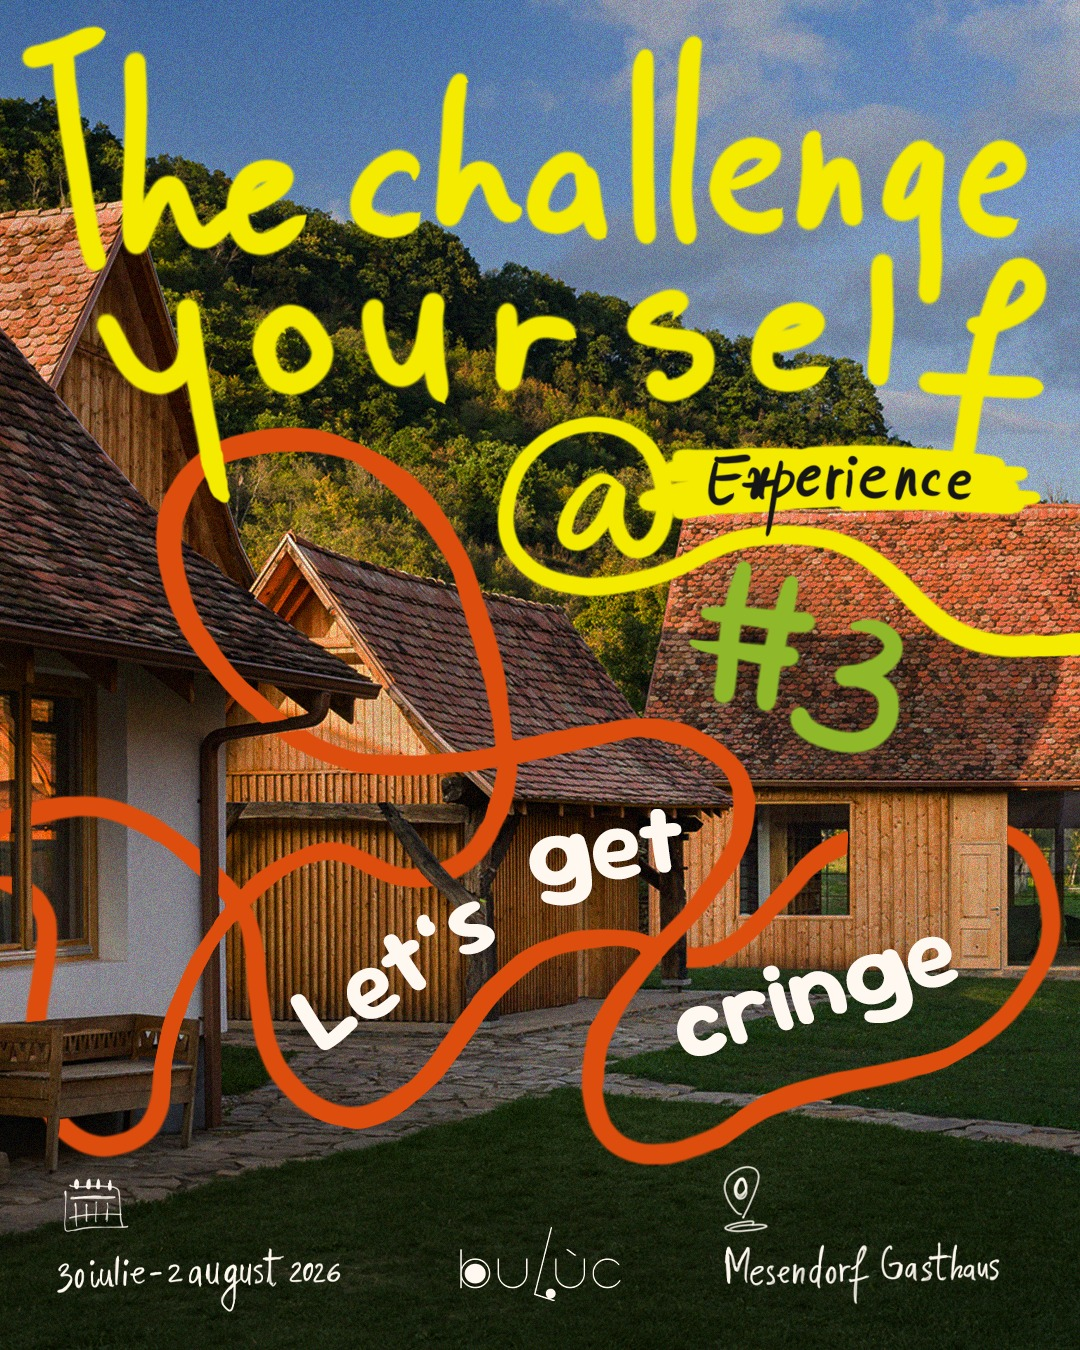
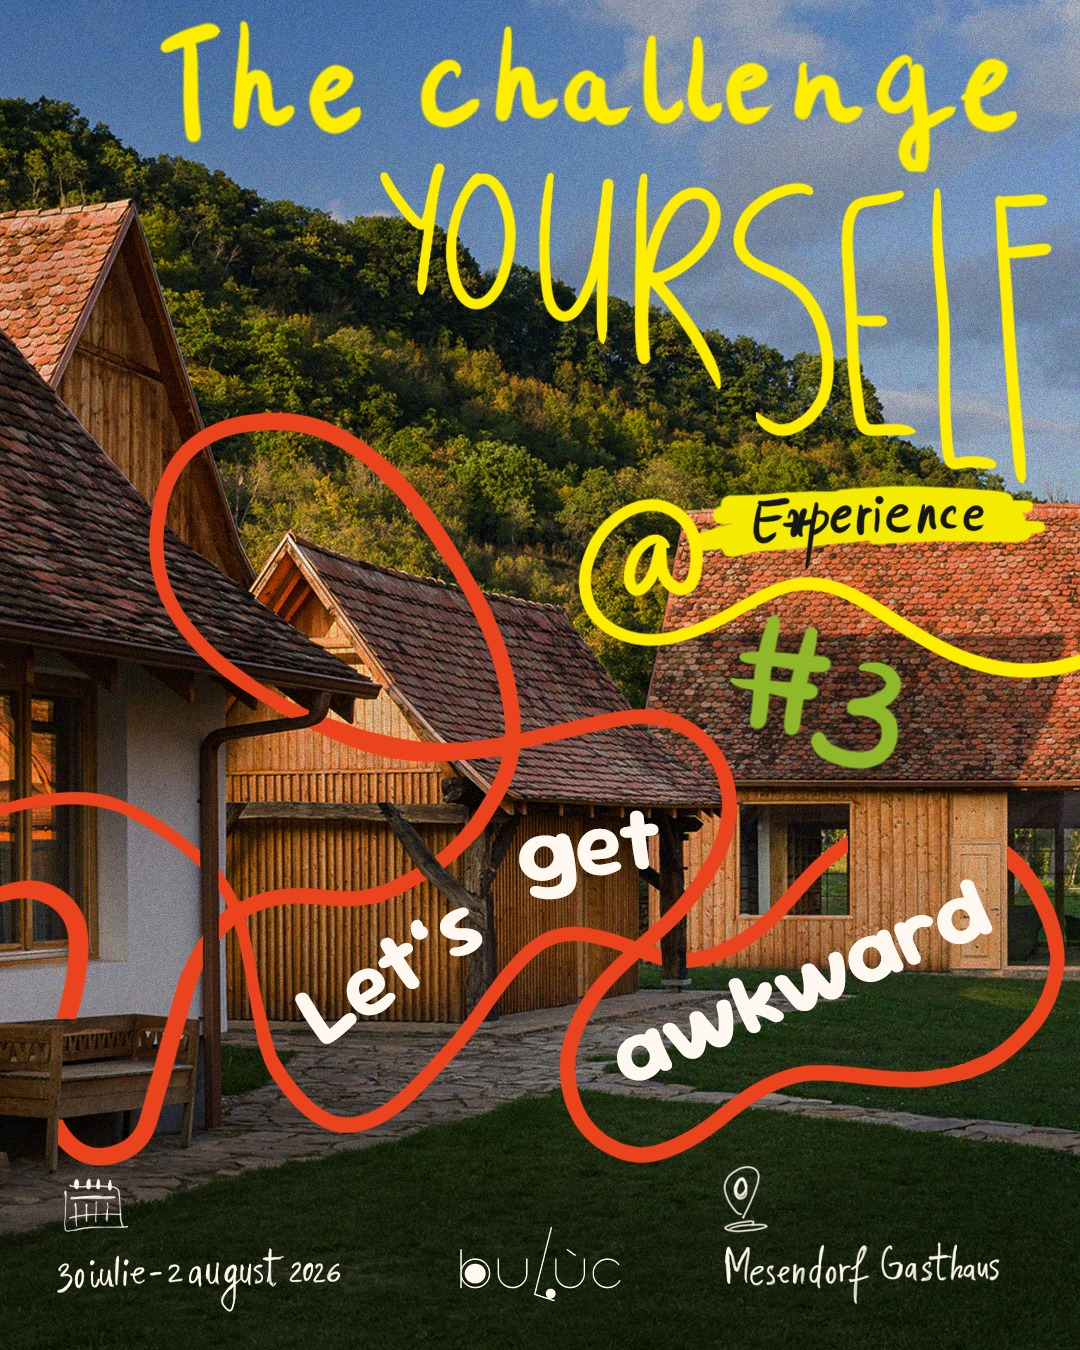
update sxperise 3

diff --git a/src/pages/ExperienceV3.tsx b/src/pages/ExperienceV3.tsx
@@ -1,4 +1,4 @@
-import { FaEnvelope } from "react-icons/fa";
+import { FaEnvelope, FaExternalLinkAlt } from "react-icons/fa";
 import { useRef } from "react";
 import TeamMemberCard from "../components/cards/TeamMemberCard";
 import MainLayout from "../components/layouts/MainLayout";
@@ -10,36 +10,92 @@ import FaqItemRow from '../components/layouts/FaqItemRow';
 
 export interface IExperienceProps { }
 const Experience: React.FC = () => {
+  const isMobile = window.matchMedia("(max-width: 768px)").matches;
+
   const signupRef = useRef<HTMLDivElement>(null);
   const scrollToSignup = () => {
     signupRef.current?.scrollIntoView({ behavior: 'smooth' });
   };
   return (
     <MainLayout noPadding noNavbar>
+      <div className='w-[100vw] h-[100vh] flex mb:inline mb:h-auto overflow-hidden'>
+        <img src={IMAGES.ExperienceV3} alt="Experience V3" className='h-[100vh] w-auto mb:w-full' />
+        <div className={''}>
+        </div>
+        
+        <div className={'h-full mb:w-full mb:h-[100vh] flex justify-center items-center bg-[#233528]'}>
+            <div className='px-20 text-white mb:px-8 '>
+              <p className='text-2xl pb-10 mb:text-[20px] mb:pb-4'>
+                O experienta creativa de patru zile construită ca un proces organic unde transformăm frica de penibil in <strong>curaj</strong>. Este despre <strong>libertate, energie creativa si bucuria de a fi tu</strong>. Un bootcamp artistic pentru oamenii care simt că frica de penibil le ține uneori vocea pe pauză: in viața de zi cu zi, in corp, în relații, în exprimare.
+              </p>
+
+              <p className='text-2xl pb-10 mb:text-[20px] mb:pb-4'>
+                Împreunǎ vom experimenta vulnerabilitatea într-un mediu sigur și vom învǎța sǎ ne bucurǎm de stângăcii și ridicol, transformându-le în putere personală.
+              </p>
+
+              <button className="my-4 px-2 text-[1.5rem] border-b-2 border-white flex items-center gap-2 font-bold" onClick={scrollToSignup}>
+                Sari direct la înscriere
+                <FaExternalLinkAlt className="h-4" />
+              </button>
+            </div>
+          </div>
+      </div>
+
+      <div className='w-[100vw] h-[100vh] flex mb:inline mb:h-auto overflow-hidden'>
+        <img src={IMAGES.ExperienceV3} alt="Experience V3" className='h-[100vh] w-auto mb:w-full' />
+        <div className={''}>
+        </div>
+        
+        <div className={'h-full mb:w-full mb:h-[100vh] flex justify-center items-center bg-[#859762]'}>
+            <div className='px-20 text-white mb:px-8'>
+              <p className='text-2xl pb-10 mb:text-[20px] mb:pb-4'>
+                O experienta creativa de patru zile construită ca un proces organic unde transformăm frica de penibil in <strong>curaj</strong>. Este despre <strong>libertate, energie creativa si bucuria de a fi tu</strong>. Un bootcamp artistic pentru oamenii care simt că frica de penibil le ține uneori vocea pe pauză: in viața de zi cu zi, in corp, în relații, în exprimare.
+              </p>
+
+              <p className='text-2xl pb-10 mb:text-[20px] mb:pb-4'>
+                Împreunǎ vom experimenta vulnerabilitatea într-un mediu sigur și vom învǎța sǎ ne bucurǎm de stângăcii și ridicol, transformându-le în putere personală.
+              </p>
+
+              <button className="my-4 px-2 text-[1.5rem] border-b-2 border-white" onClick={scrollToSignup}>Sari direct la înscriere</button>
+            </div>
+          </div>
+      </div>
+
+      <div className='p-20 bg-white mb:p-8'>
+        <AnimatedTextLine delay={1200}><p className='text-[3.5vw] mb:text-[20px]'>Un spațiu în care penibilul nu e evitat, ci explorat</p></AnimatedTextLine>
+        <AnimatedTextLine delay={1400}><p className='text-[3.5vw] mb:text-[20px]'>Să te exprimi</p></AnimatedTextLine>
+        <AnimatedTextLine delay={400}><p className='text-[3.5vw] mb:text-[20px]'> Un spațiu în care ai voie să greșești</p></AnimatedTextLine>
+        <AnimatedTextLine delay={800}><p className='text-[3.5vw] mb:text-[20px]'>Să te joci</p></AnimatedTextLine>
+        <AnimatedTextLine delay={1000}><p className='text-[3.5vw] mb:text-[20px]'>Și poate pentru prima dată după mult timp, să te simți liber</p></AnimatedTextLine>
+      </div>
+
       <ImageWithText 
-        image={IMAGES.ExperienceV3}
-        textBoxClass='flex justify-center items-center bg-[#f5f1a0]'  
+        image={IMAGES.ExperienceV3_22}
+        textBoxClass='flex justify-center items-center bg-[#233528]'  
       >
-        <div className='text-red flex flex-col justify-center items-center'>
+        <div className='text-white flex flex-col justify-center items-center'>
           <a href="/" className='pb-10'>
-            <div className="h-[5rem] w-[11rem] bg-cover bg-center" style={{ backgroundImage: `url(${IMAGES.logo})` }}></div>
+            <div className="h-[5rem] w-[11rem] bg-cover bg-center" style={{ backgroundImage: `url(${IMAGES.logoAlb})` }}></div>
           </a>
 
           <h1 className='text-center pb-10'>The Challenge Yourself @Experience #3</h1>
           <h4 className='pb-4'>LET’S GET AWKWARD</h4>
           <p className='pb-1'>30 iulie - 2 august 2026</p>
-          <p>Mesendorf Gasthaus</p>
+          <a href="https://www.mesendorfgasthaus.ro/" target="_blank" rel="noopener noreferrer" className='cursor-pointer underline pb-2'>Mesendorf Gasthaus</a>
 
-          <button className="my-8 px-2 text-[1.5rem] border-b-2 border-red" onClick={scrollToSignup}>Înscrie-te acum</button>
+          <button className="my-4 px-2 text-[1.25rem] border-b-2 border-white flex items-center gap-2 font-bold" onClick={scrollToSignup}>
+            Sari direct la înscriere
+            <FaExternalLinkAlt className="h-4" />
+          </button>
         </div>
       </ImageWithText>
 
        <ImageWithText 
-        image={IMAGES.ExperienceV3}
-        textRight={true}
-        textBoxClass='flex justify-center items-center bg-[#f5f1a0]'  
-      >
-         <div className='px-20 text-red mb:px-8'>
+          image={IMAGES.ExperienceV3_23}
+          textRight={true}
+          textBoxClass='flex justify-center items-center bg-[#859762]'  
+        >
+         <div className='px-20 text-white mb:px-8'>
           <p className='text-2xl pb-10 mb:text-[20px] mb:pb-4'>
             O experienta creativa de patru zile construită ca un proces organic unde transformăm frica de penibil in <strong>curaj</strong>. Este despre <strong>libertate, energie creativa si bucuria de a fi tu</strong>. Un bootcamp artistic pentru oamenii care simt că frica de penibil le ține uneori vocea pe pauză: in viața de zi cu zi, in corp, în relații, în exprimare.
           </p>
@@ -47,27 +103,37 @@ const Experience: React.FC = () => {
           <p className='text-2xl pb-10 mb:text-[20px] mb:pb-4'>
             Împreunǎ vom experimenta vulnerabilitatea într-un mediu sigur și vom învǎța sǎ ne bucurǎm de stângăcii și ridicol, transformându-le în putere personală.
           </p>
-
-          <button className="my-4 px-2 text-[1.5rem] border-b-2 border-red" onClick={scrollToSignup}>Înscrie-te acum</button>
         </div>
       </ImageWithText>
 
-      <ImageWithText 
-        image={IMAGES.ExperienceV3_4}
-        textRight={true}
-        textBoxClass='flex justify-center items-center bg-[#859762]'  
-      >
-        <div className='px-20 text-white mb:px-8'>
-          <p className='text-2xl pb-10 mb:text-[20px]'>
+      <div className='p-20 bg-white mb:p-8'>
+        <AnimatedTextLine delay={1200}><p className='text-[3.5vw] mb:text-[20px]'>Un spațiu în care penibilul nu e evitat, ci explorat</p></AnimatedTextLine>
+        <AnimatedTextLine delay={1400}><p className='text-[3.5vw] mb:text-[20px]'>Să te exprimi</p></AnimatedTextLine>
+        <AnimatedTextLine delay={400}><p className='text-[3.5vw] mb:text-[20px]'> Un spațiu în care ai voie să greșești</p></AnimatedTextLine>
+        <AnimatedTextLine delay={800}><p className='text-[3.5vw] mb:text-[20px]'>Să te joci</p></AnimatedTextLine>
+        <AnimatedTextLine delay={1000}><p className='text-[3.5vw] mb:text-[20px]'>Și poate pentru prima dată după mult timp, să te simți liber</p></AnimatedTextLine>
+      </div>
+
+      <div>
+        <img src={IMAGES.ExperienceV3_cover} alt="Experience V3" className='w-[100vw] h-auto mb:h-full' />
+      </div>
+
+       <ImageWithText 
+          image={IMAGES.ExperienceV3_23}
+          textRight={true}
+          textBoxClass='flex justify-center items-center bg-[#859762]'  
+        >
+         <div className='px-20 text-white mb:px-8'>
+          <p className='text-2xl pb-10 mb:text-[20px] mb:pb-4'>
             O experienta creativa de patru zile construită ca un proces organic unde transformăm frica de penibil in <strong>curaj</strong>. Este despre <strong>libertate, energie creativa si bucuria de a fi tu</strong>. Un bootcamp artistic pentru oamenii care simt că frica de penibil le ține uneori vocea pe pauză: in viața de zi cu zi, in corp, în relații, în exprimare.
           </p>
 
-          <p className='text-2xl pb-10 mb:text-[20px]'>
+          <p className='text-2xl pb-10 mb:text-[20px] mb:pb-4'>
             Împreunǎ vom experimenta vulnerabilitatea într-un mediu sigur și vom învǎța sǎ ne bucurǎm de stângăcii și ridicol, transformându-le în putere personală.
           </p>
         </div>
       </ImageWithText>
-
+      
       <div className='p-20 bg-white mb:p-8'>
         <AnimatedTextLine delay={1200}><p className='text-[3.5vw] mb:text-[20px]'>Un spațiu în care penibilul nu e evitat, ci explorat</p></AnimatedTextLine>
         <AnimatedTextLine delay={1400}><p className='text-[3.5vw] mb:text-[20px]'>Să te exprimi</p></AnimatedTextLine>

diff --git a/src/assets/Images.tsx b/src/assets/Images.tsx
@@ -110,6 +110,7 @@ const IMAGES = {
     ExperienceV2_4: new URL('/src/assets/images/challenge/experince/experienceV2_4.webp', import.meta.url).href,
     ExperienceV2_5: new URL('/src/assets/images/challenge/experince/experienceV2_5.webp', import.meta.url).href,
     ExperienceV3: new URL('/src/assets/images/challenge/experince/experienceV3/experienceV3.jpeg', import.meta.url).href,
+    ExperienceV3_cover: new URL('/src/assets/images/challenge/experince/experienceV3/experienceV3-cover.png', import.meta.url).href,
     ExperienceV3_1: new URL('/src/assets/images/challenge/experince/experienceV3/experienceV3-1.jpeg', import.meta.url).href,
     ExperienceV3_2: new URL('/src/assets/images/challenge/experince/experienceV3/experienceV3-2.jpeg', import.meta.url).href,
     ExperienceV3_3: new URL('/src/assets/images/challenge/experince/experienceV3/experienceV3-3.jpeg', import.meta.url).href,
@@ -129,6 +130,9 @@ const IMAGES = {
     ExperienceV3_19: new URL('/src/assets/images/challenge/experince/experienceV3/experienceV3-19.jpeg', import.meta.url).href,
     ExperienceV3_20: new URL('/src/assets/images/challenge/experince/experienceV3/experienceV3-20.jpeg', import.meta.url).href,
     ExperienceV3_21: new URL('/src/assets/images/challenge/experince/experienceV3/experienceV3-21.jpeg', import.meta.url).href,
+    ExperienceV3_22: new URL('/src/assets/images/challenge/experince/experienceV3/experienceV3-23.png', import.meta.url).href,
+    ExperienceV3_23: new URL('/src/assets/images/challenge/experince/experienceV3/experienceV3-22.png', import.meta.url).href,
+
     ExperienceV3_echipa_1: new URL('/src/assets/images/challenge/experince/experienceV3/echipa1.png', import.meta.url).href,
     ExperienceV3_echipa_2: new URL('/src/assets/images/challenge/experince/experienceV3/echipa2.png', import.meta.url).href,
     ExperienceV3_echipa_3: new URL('/src/assets/images/challenge/experince/experienceV3/echipa3.png', import.meta.url).href,
